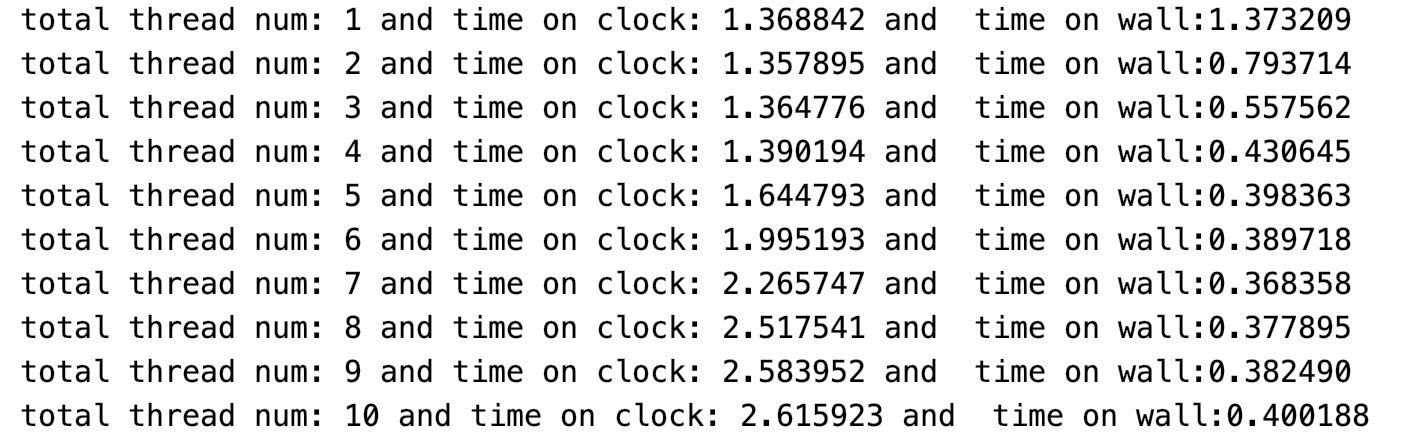
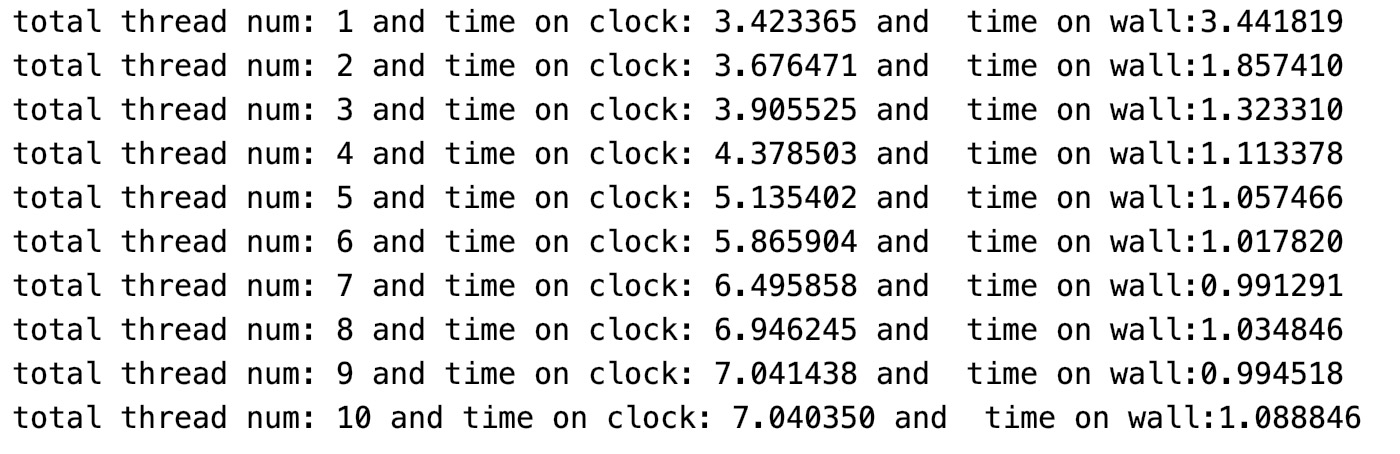
merge array data set

diff --git a/pp_openmp/merging_sorted_lists/main.cpp b/pp_openmp/merging_sorted_lists/main.cpp
@@ -8,6 +8,7 @@
 #include <algorithm>
 using namespace std;
 
+int findFirstGE(const vector<long>& array, int target);
 vector<long> merge(const vector<long>& left, const vector<long>& right, int threads)
 {
     vector<long> result;
@@ -22,33 +23,39 @@ vector<long> merge(const vector<long>& left, const vector<long>& right, int thre
     #pragma omp parallel for
     for (left_it = 0; left_it < left.size();left_it++){
         thread_count = omp_get_num_threads();
-        #pragma omp parallel for
-        for (right_it = 0; right_it < right.size(); ++right_it) {
-            if (left[left_it] <= right[right_it]) {
-                result[left_it + right_it] = left[left_it];
-            }
-        }
+        int index = findFirstGE(right,left[left_it]);
+        result[left_it + right_it] = left[left_it];
     }
 
     #pragma omp parallel for
     for (right_it = 0; right_it < right.size();right_it++){
-        #pragma omp parallel for
-        for (left_it = 0; left_it < left.size(); ++left_it) {
-            if (right[right_it] <= left[left_it]) {
-                result[left_it + right_it] = right[right_it];
-            }
-        }
+        int index = findFirstGE(left,right[right_it]);
+        result[left_it + right_it] = right[right_it];
     }
 
     printf("total thread num: %d and time on clock: %f and  time on wall:%f\n",thread_count,(double) (clock() - clock_timer) / CLOCKS_PER_SEC,thread_count,omp_get_wtime() - wall_timer);
     return result;
 }
 
+int findFirstGE(const vector<long>& array, int target) // satisfy condition: array[?] >= target  and the first one
+{
+    int start = 0, end = array.size() - 1;
+    while (start <= end) {
+        int mid = (start + end) / 2;
+        if (array[mid] < target)
+            start = mid + 1;
+        else if (array[mid] >= target)
+            end = mid - 1;
+    }
+    if (end == array.size() - 1)
+        return -1;
+    return end + 1;
+}
 
 
 int main()
 {
-    int num = 10000;
+    int num = 10000000;
     vector<long> v1(num);
     vector<long> v2(num);
     for (long i=0; i<num; ++i){
